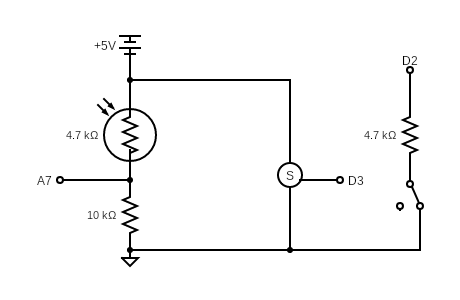
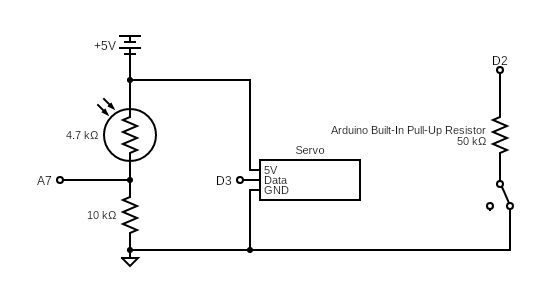
Updated circuit diagram

diff --git a/docs/circuit/README.md b/docs/circuit/README.md
@@ -1,0 +1,1 @@
+The circuit diagram was created with https://www.circuit-diagram.org.
